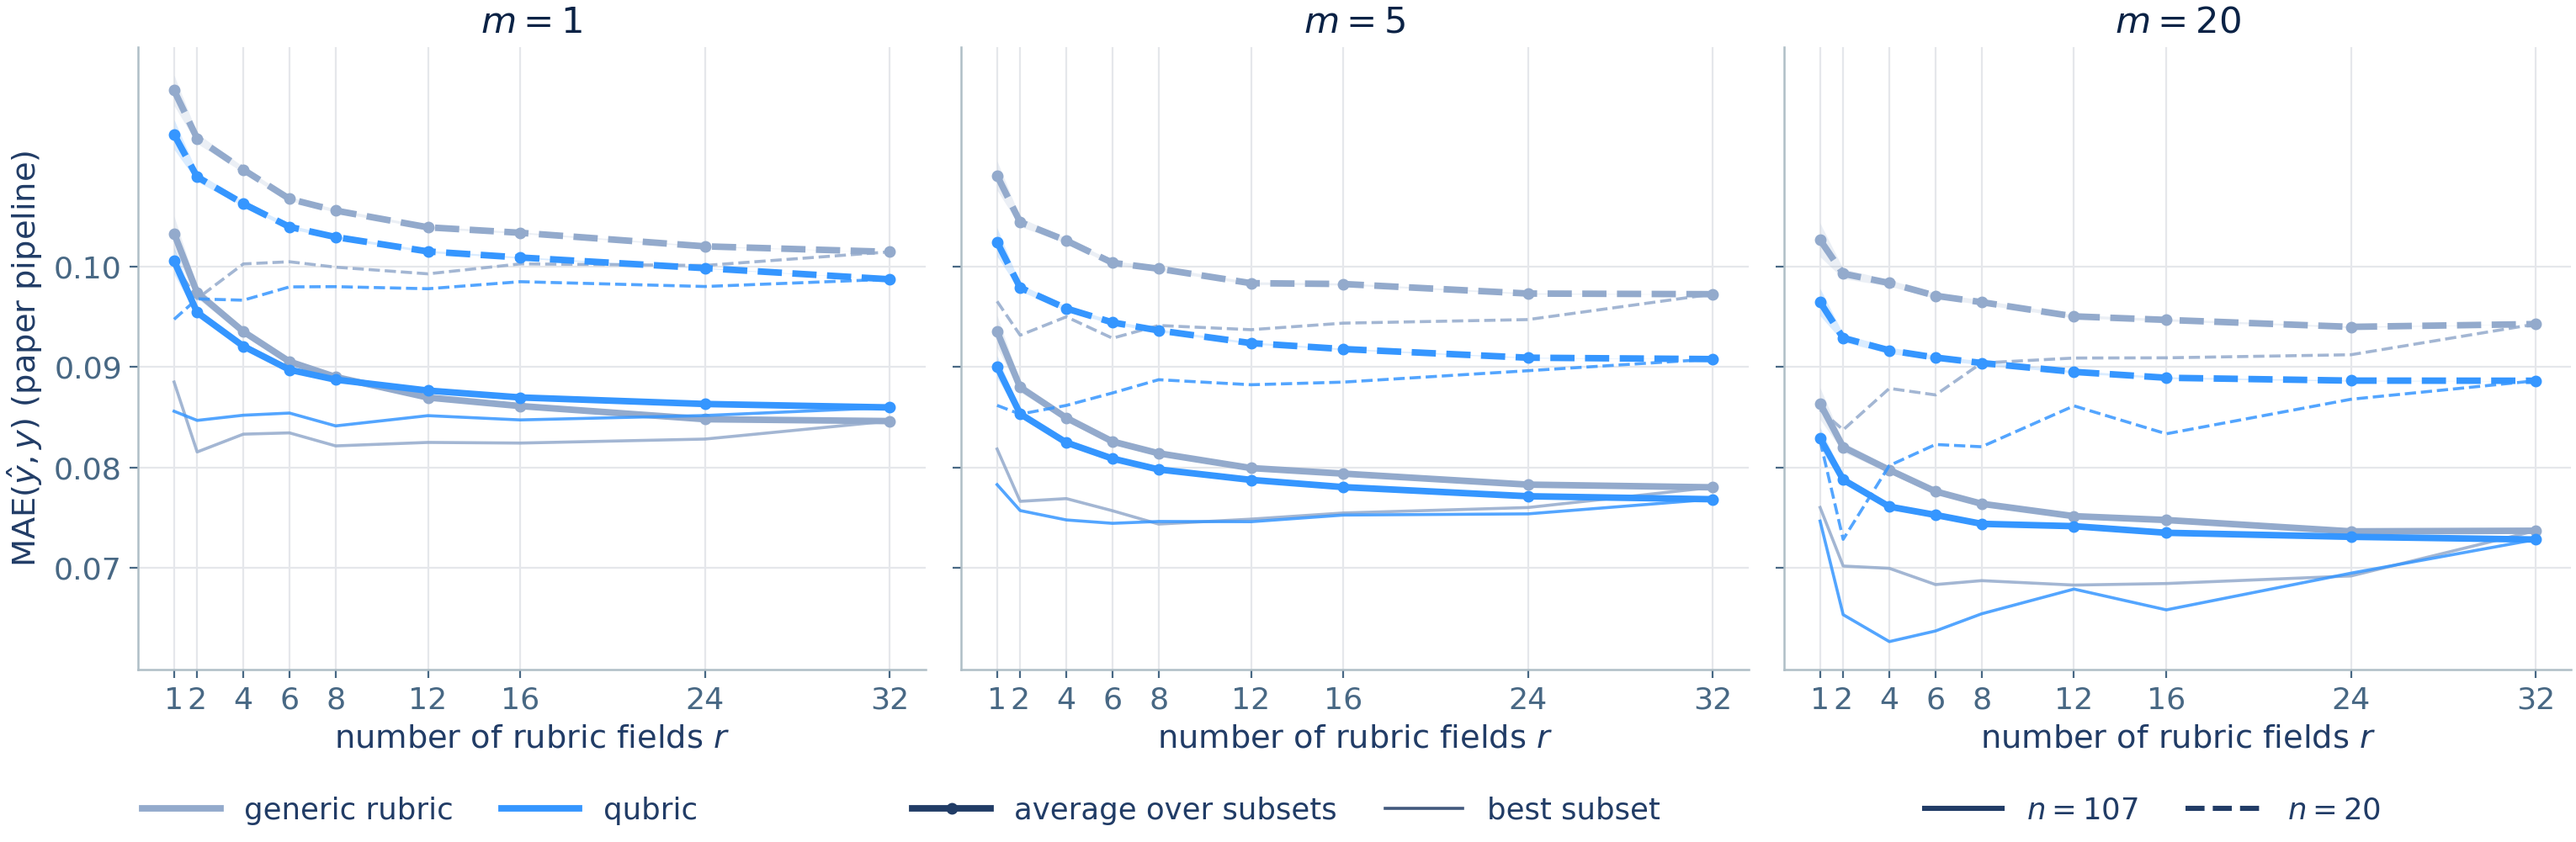
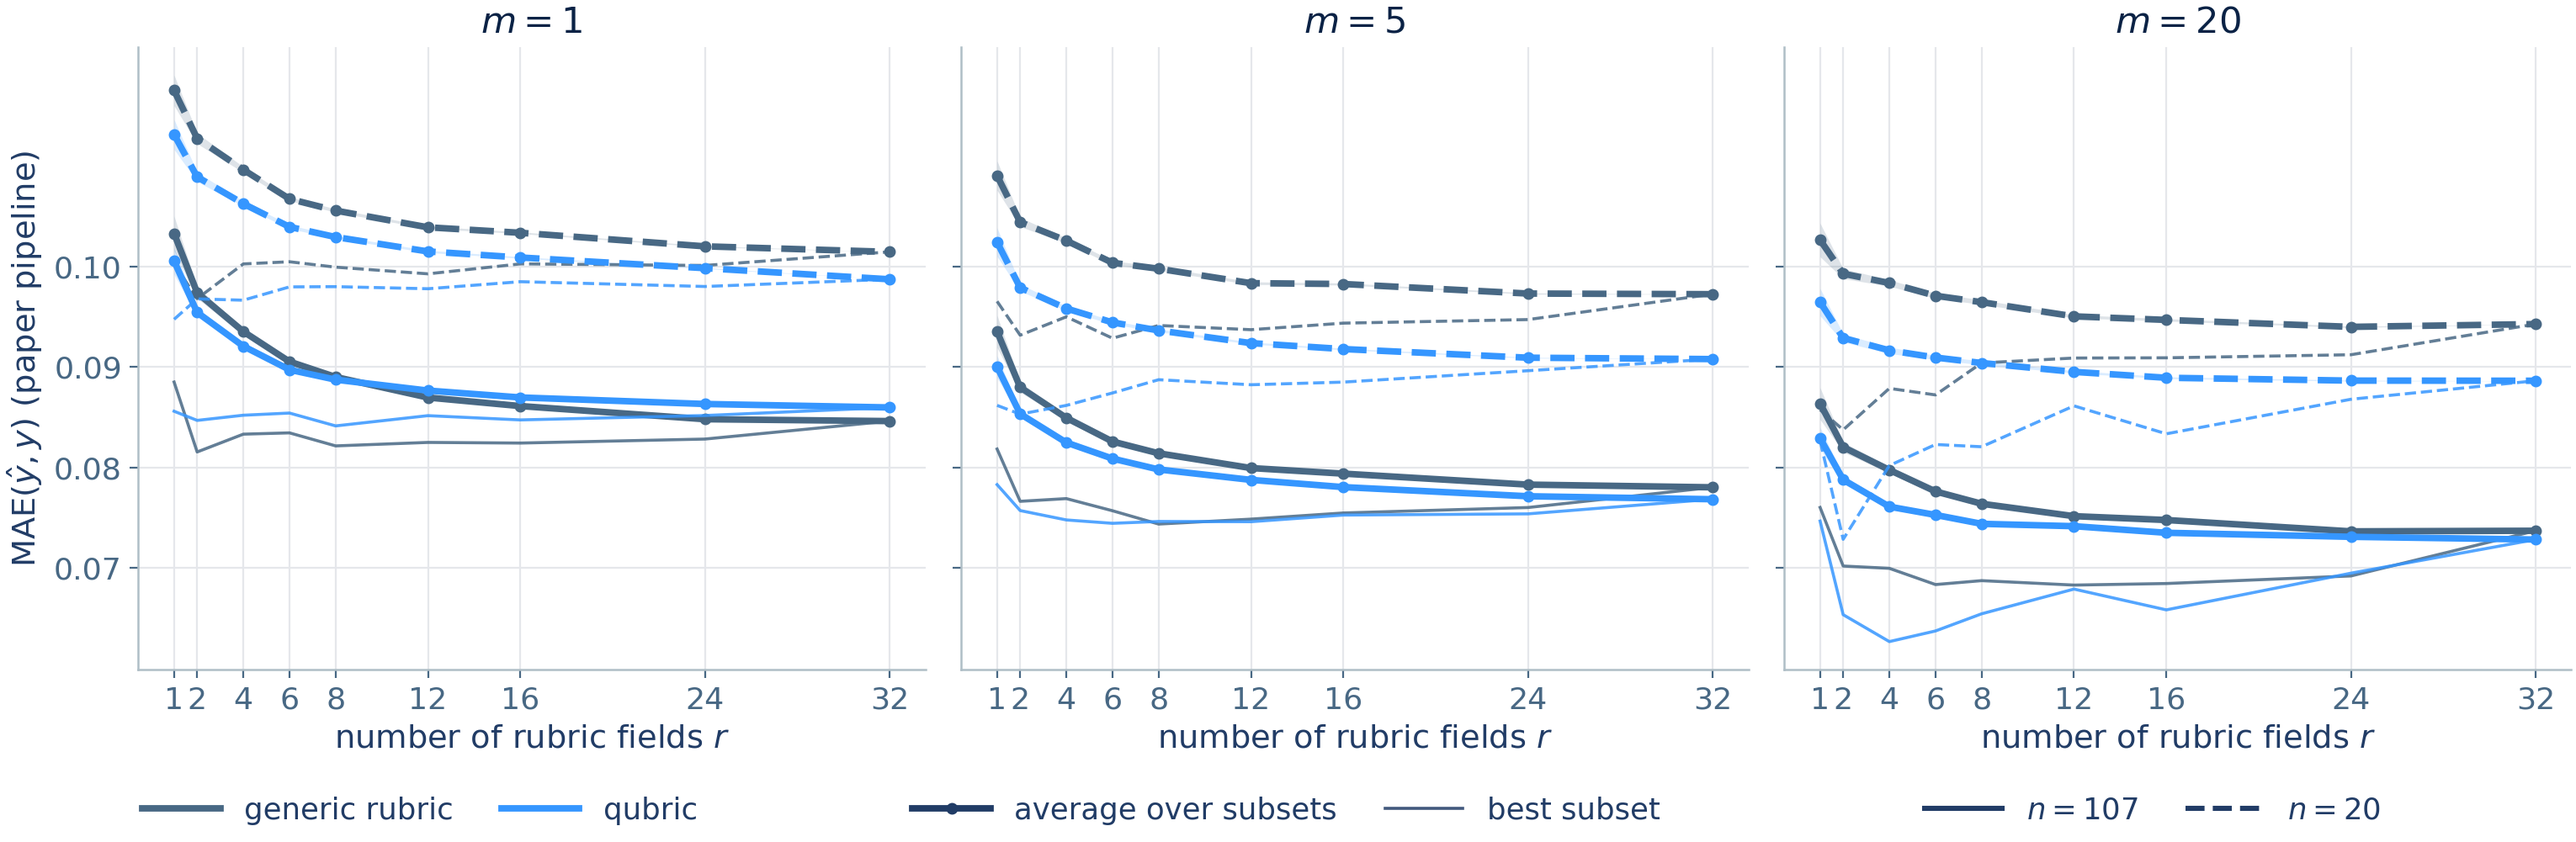
style: enforce global method-color canon (IRT=baseline_pale in cost fig; generic=slate everywhere); document linestyle rules
Claude-Session: https://claude.ai/code/session_01RGusFFXzoPTkSKgzzDLjNv

diff --git a/scripts/hv_style.py b/scripts/hv_style.py
@@ -7,9 +7,17 @@ dashed = score-only, solid = uses trace embeddings):
   sample score        -> baseline_gray
   IRT (2PL)           -> baseline_pale
   raw-trace geometry  -> comparator
+  generic geometry    -> generic (slate blue, solid: uses embeddings)
   qubric geometry     -> focus
   qubric + IRT blend  -> anchor
   (violet reserve unassigned so far)
+
+COLOR always encodes the method, with the mapping above, in every
+figure. LINESTYLE encodes at most one attribute per figure: by default
+the method's dashed=score-only / solid=uses-embeddings rule (protocol
+grid, ranking panels); figures that sweep a setting instead use
+solid=primary / dashed=secondary uniformly across methods and say so
+in the legend (cost MAE panels: adaptive/random; sensitivity: n=107/20).
 """
 import matplotlib as mpl
 
@@ -27,6 +35,7 @@ ROLES = {
     'baseline_pale': dict(color='#afbec6', ls='--', lw=2.6),
     'comparator':    dict(color='#93aacc', ls='-', lw=2.6),
     'slate':         dict(color='#486884', ls='--', lw=2.6),
+    'generic':       dict(color='#486884', ls='-', lw=2.6),
     'focus':         dict(color='#3596ff', ls='-', lw=2.6),
     'anchor':        dict(color='#114471', ls='-', lw=3.6),
     'reserve':       dict(color='#6d5bd0'),

diff --git a/scripts/fig_cost.py b/scripts/fig_cost.py
@@ -55,8 +55,8 @@ def main():
         curves = [
             (rand, 'sample', 'Sample Score (random)', 'baseline_gray', '--'),
             (adap, 'sample', 'Sample Score (adaptive)', 'baseline_gray', '-'),
-            (rand, 'irt', 'IRT (random)', 'comparator', '--'),
-            (adap, 'irt', 'IRT (adaptive)', 'comparator', '-'),
+            (rand, 'irt', 'IRT (random)', 'baseline_pale', '--'),
+            (adap, 'irt', 'IRT (adaptive)', 'baseline_pale', '-'),
             (rand, 'blend', 'qubric + IRT blend (random)', 'anchor', '--'),
             (adap, 'blend', 'qubric + IRT blend (adaptive)', 'anchor', '-'),
         ]
@@ -93,7 +93,7 @@ def main():
     # panels 3-4: pairwise decision accuracy (leave-two-out shared pools)
     pw = json.load(open('figures/pairwise_cost.json'))
     PW_SERIES = [('sample', 'Sample Score', 'baseline_gray'),
-                 ('irt', 'IRT (2PL)', 'comparator'),
+                 ('irt', 'IRT (2PL)', 'baseline_pale'),
                  ('geom', 'qubric geometry', 'focus'),
                  ('blend', 'qubric + IRT blend', 'anchor')]
     for ax, (bkey, (title, _, _, full_runs)) in zip(

diff --git a/scripts/rubric_sens_paper.py b/scripts/rubric_sens_paper.py
@@ -207,7 +207,7 @@ def render(results):
     fig, axes = plt.subplots(1, 3, figsize=(15.6, 4.8), sharex=True,
                              sharey=True)
     for ax, m0 in zip(axes, ('1', '5', '20')):
-        for arm, role in (('generic', 'comparator'), ('qspec', 'focus')):
+        for arm, role in (('generic', 'generic'), ('qspec', 'focus')):
             st = hv_style.ROLES[role]
             old_style = '107' not in results[arm]   # pre-n-sweep cache
             variants = ((None, '-'),) if old_style \
@@ -238,7 +238,7 @@ def render(results):
                        fontsize=SZ['subtitle'])
     ink = hv_style.INK
     legs = (
-        (.17, [Line2D([], [], color=hv_style.ROLES['comparator']
+        (.17, [Line2D([], [], color=hv_style.ROLES['generic']
                           ['color'], lw=2.8, label='generic rubric'),
                    Line2D([], [], color=hv_style.ROLES['focus']['color'],
                           lw=2.8, label='qubric')]),

diff --git a/scripts/fig_radar_probes.py b/scripts/fig_radar_probes.py
@@ -22,7 +22,7 @@ import hv_style
 hv_style.apply()
 
 RAW = hv_style.ROLES['comparator']
-GEN = hv_style.ROLES['slate']
+GEN = hv_style.ROLES['generic']
 QUB = hv_style.ROLES['focus']
 
 EMB = [('openai', 'text-embedding-3-small'),
